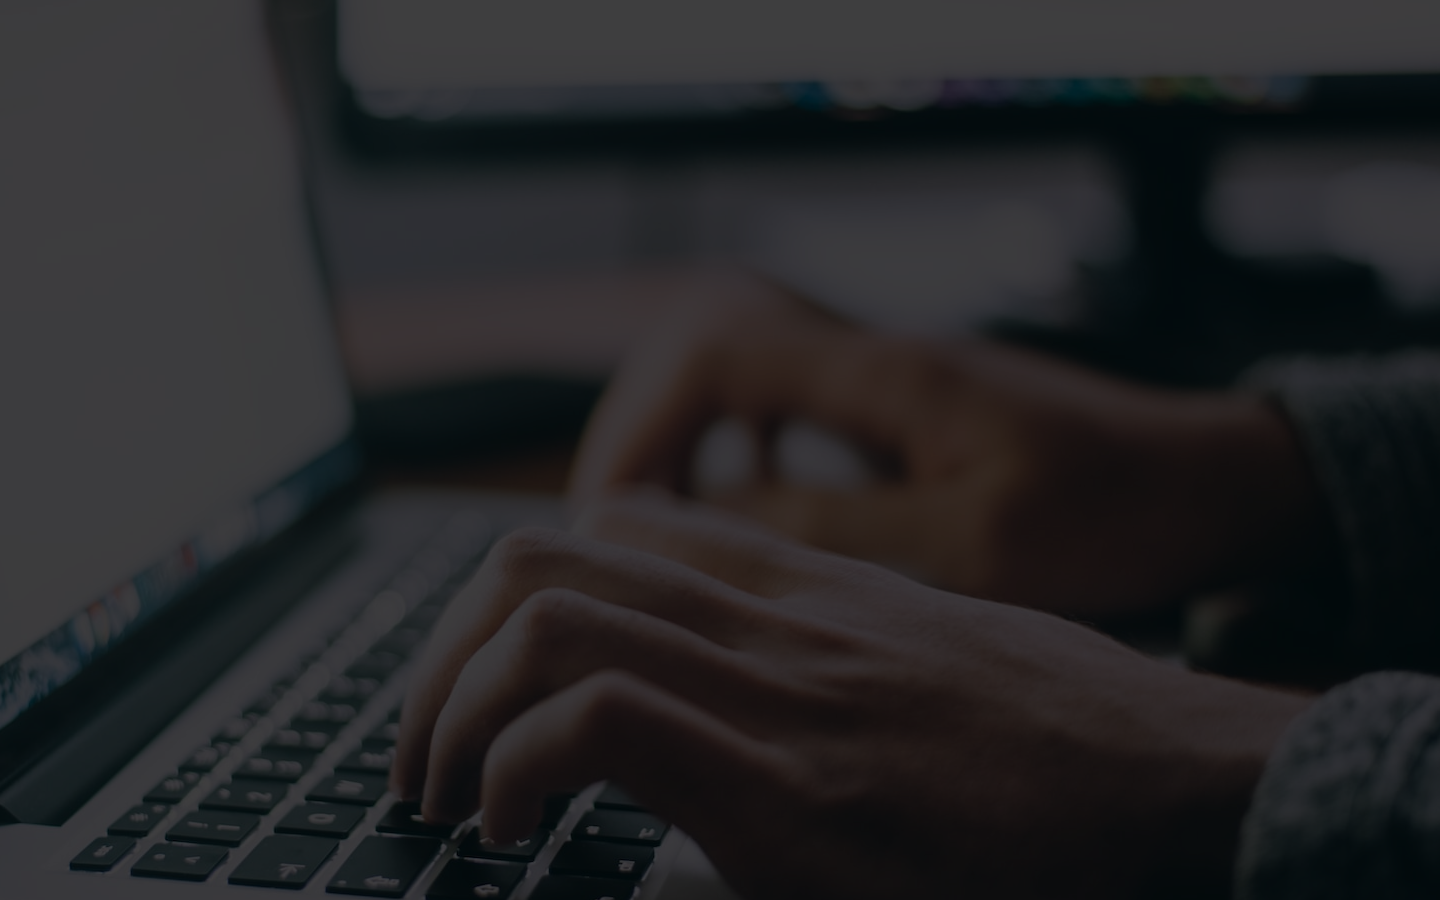
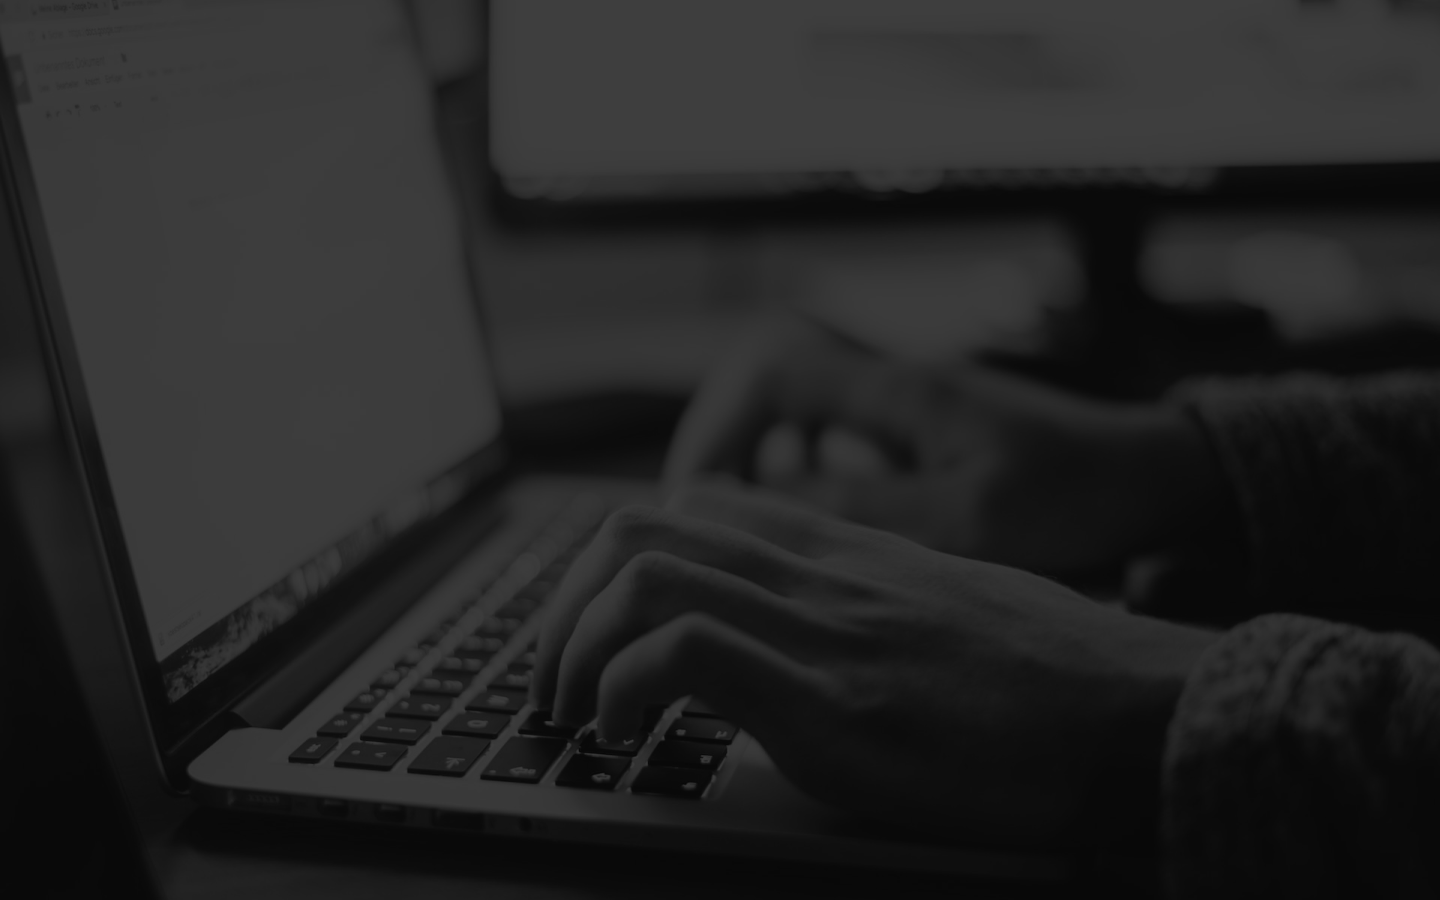
responsividade

diff --git a/css/mobile.css b/css/mobile.css
@@ -1,5 +1,10 @@
 @media (max-width: 640px){
 
+    body{
+        width: 100%;
+        height: 100%;
+    }
+
     .menu{
         display: none;
     }
@@ -29,7 +34,9 @@
     }
 
     .logo{
+        display: flex;
         font-size: 2rem;
+        width: 300px;
     }
     .profile{
         display: flex;
@@ -41,6 +48,10 @@
         width: 450px;
     }
 
+    .home::before{
+        width: 100vw    ;
+    }
+
     .profile__text{
         display: grid;
         justify-content: center;
@@ -49,7 +60,7 @@
     }
 
     .profile__name{
-        font-size: 1rem;
+        font-size: 5rem;
         justify-content: center;
         align-items: center;
     }
@@ -60,6 +71,8 @@
 
     .description__skills{
         flex-direction: column;
+        justify-content: center;
+        align-items: center;
         margin-left: 48px;
         gap: 24px;
     }
@@ -74,6 +87,7 @@
     .skills{
         padding-top: 32px;
         font-size: 48px;
+        width: 350px;
     }
 
     .card-container{
@@ -83,29 +97,45 @@
     }
 
     .sobreMim{
-        height: 80vh;
+        height: 90vh;
     }
 
     .projetos{
         height: 60vh;
     }
 
+    
 
     .contatos{
-        height: 50vh;
+        height: 70vh;
+    }
+
+    .contatos{
+        display: flex;
+        flex-direction: column;
+        align-items: center;        
     }
 
     .contato__container{
-        margin-left: 35px;
+        display: flex;
+        flex-direction: column;
+        justify-content: center;
+        align-items: center;
+        gap: 12px;
     }
 
-    .contato__item{
+    .social__container{
         display: flex;
+        flex-direction: column;
+        justify-content: center;
         align-items: center;
     }
 
     .link__container{
-        margin-right: 38.13px;
+        display: flex;
+        flex-direction: column;
+        justify-content: center;
+        align-items: center;
     }
 
 }

diff --git a/css/home.css b/css/home.css
@@ -1,38 +1,29 @@
-.home{
+.home {
+    width: 100%;
     display: flex;
     justify-content: center;
     align-items: center;
-
-}
-
-.home::before{
-    content: " ";
-    position: absolute;
-    width: 100%;
-    height: 100%;
     background-image: url(../img/background.png);
     background-repeat: no-repeat;
     background-size: cover;
-    filter: grayscale(100%);
-    box-shadow: inset 0px -40px 40px #000000;
-}
-
-.profile{
+    box-shadow: inset 0px -40px 40px #000;
+  }
+  
+  .profile__foto {
+    filter: grayscale();
+  }
+  
+  .profile {
     display: flex;
-    z-index: 1;
     align-items: center;
     gap: 48px;
-}
-
-.profile__text{
-    font-size: 2.25rem;
-}
-
-.profile__name{ 
+  }
+  
+  .profile__text {
+    font-size: 1.5rem;
+  }
+  
+  .profile__name {
     font-size: 4rem;
     color: var(--primary-color);
-}
-
-.profile__foto{
-    filter: grayscale(100%);
-}
+  }

diff --git a/index.html b/index.html
@@ -15,9 +15,9 @@
     <link rel="stylesheet" href="./css/sobreMim.css">
     <link rel="stylesheet" href="./css/projetos.css">
     <link rel="stylesheet" href="./css/contato.css">
-    <link rel="stylesheet" href="./css/responsividadeTablet.css">
-    <link rel="stylesheet" href="./css/responsividadeCelular.css">
-    
+    <link rel="stylesheet" href="./css/tablet.css">
+    <link rel="stylesheet" href="./css/mobile.css">
+
     <link rel="preconnect" href="https://fonts.googleapis.com">
     <link rel="preconnect" href="https://fonts.gstatic.com" crossorigin>
     <link href="https://fonts.googleapis.com/css2?family=Ubuntu:wght@400;500;700&display=swap" rel="stylesheet">

diff --git a/css/style.css b/css/style.css
@@ -35,20 +35,22 @@ section{
 }
 
 footer{
-    grid-area: content;
-    place-self: end start;
-    height: 100px;
+    height: 50px;
     width: 100%;
-    justify-content: center;
-    display: flex;
-    align-items: center;
-   
+    background-color: #0005;
+    grid-area: content;
+    place-self: end center;
+    display: grid;
+    place-content: center;
+    border-top: 2px solid white;
+    font-size: 0.75rem;
+    font-style: italic;
 
 }
 
 @media (max-width: 9999px){
     .bars__icon{
-        visibility: hidden;
+        visibility: hi;
     }
     
 }

diff --git a/css/tablet.css b/css/tablet.css
@@ -26,6 +26,7 @@
         flex-direction: column;
         justify-content: center;
         height: 80vh;
+        padding-bottom: 300px;
     }
 
     .logo{
@@ -80,8 +81,11 @@
         align-items: center;
     }
 
+    .sobreMim{
+        height: 80vh;
+    }
 
-    
+
     .projetos{
         height: 60vh;
     }
